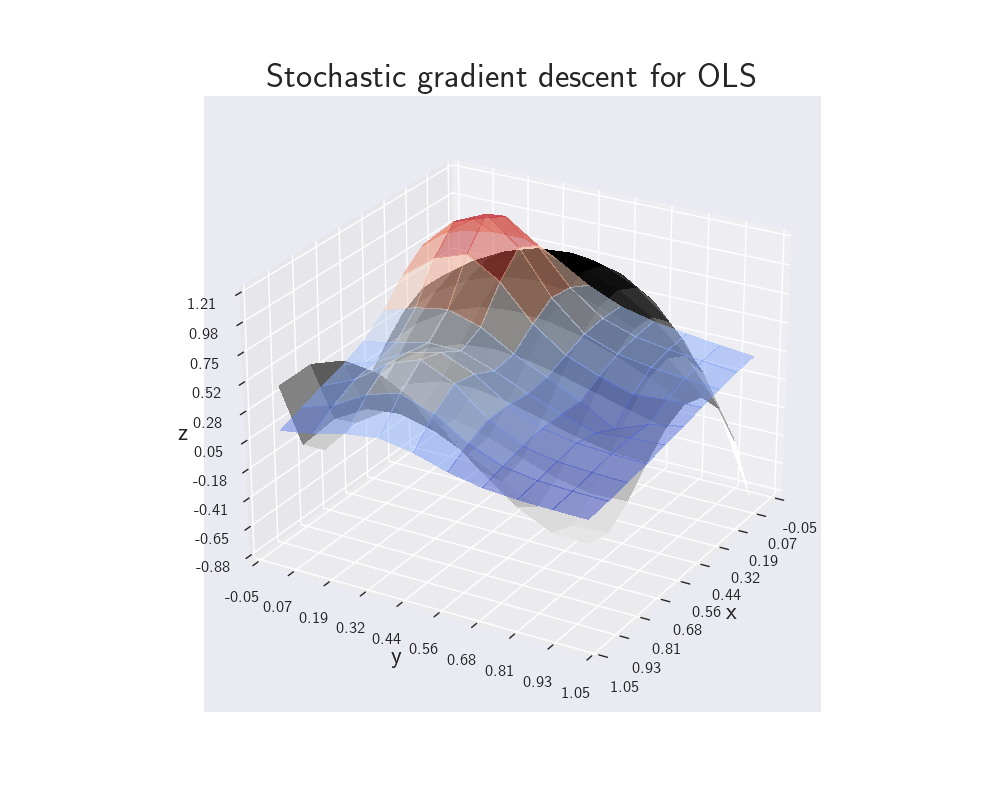
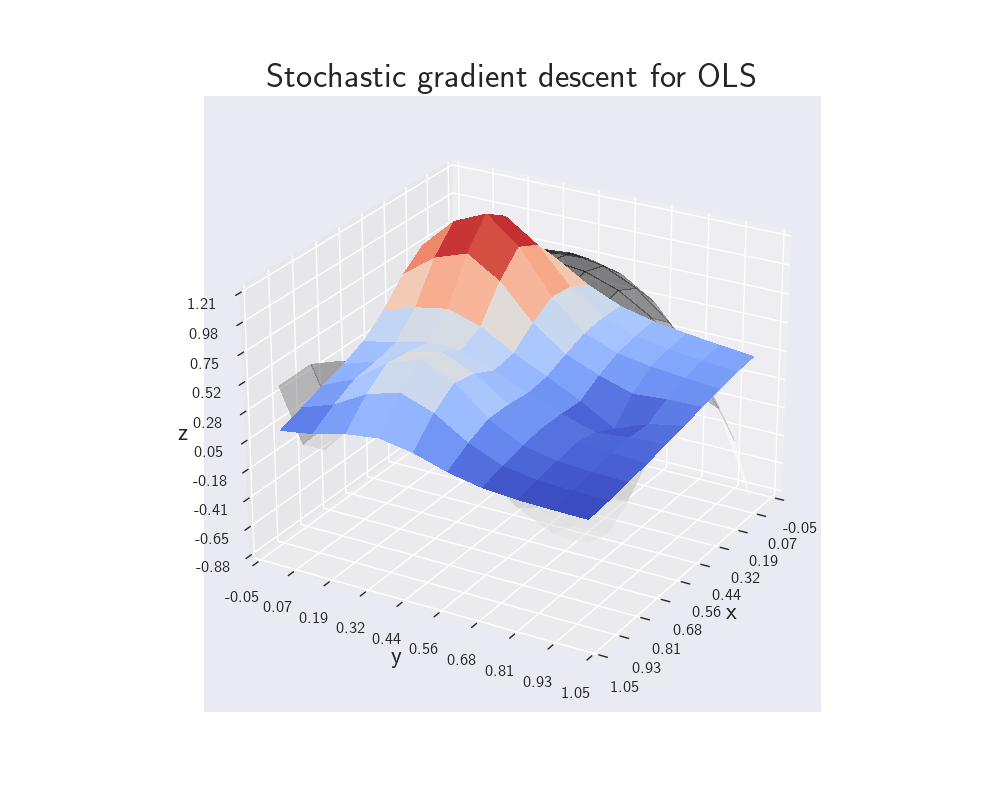
smaa endringer

Changed region(s): [[0.279, 0.25, 0.744, 0.6562]]

diff --git a/Project2/main_sebastian.py b/Project2/main_sebastian.py
@@ -37,31 +37,39 @@ def main():
     alph_solid = 1.0 # The alph values are used for which transparency to use in plotting of model and data.
     alph_transparent = 0.5
 
-    model = OLS(z, X, m, M, lamb = 0) # Initialize our OLS model.
+
+
+    model = OLS(z, X, m, M, 0) # Initialize our OLS model.
     # Calculate methods for OLS:
     MSE1_OLS, beta1 = model.SGD(x, y, z_data, n_epochs, M, t0, t1, tol)
     MSE2_OLS, beta2 = model.GDM(x, y, z_data, n_epochs, M, t0, t1, v, gamma, tol)
     # Plots for OLS:
-    model_terrain(X, x, y, beta1, N, 'Stochastic gradient descent for OLS', z_data, alph_solid, alph_transparent)
-    model_terrain(X, x, y, beta2, N, 'Stochastic gradient descent with momentum for OLS', z_data, alph_transparent, alph_solid)
+    model_terrain(X, x, y, beta1, N, 'Stochastic gradient descent for OLS', z_data, alph_transparent, alph_solid)
+    model_terrain(X, x, y, beta2, N, 'Stochastic gradient descent with momentum for OLS', z_data, alph_solid, alph_transparent)
     # Compare with scikit: (we only have loss model for OLS).
-    model.compare_MSE(n_epochs, t0, MSE1_OLS, eta0)
+    model.compare_MSE(n_epochs, t0, eta0)
 
-    model = Ridge(z, X, m, M, lamb = 4.28*10**(-2)) # Initialize our Ridge model with specific lambda value.
+    model = Ridge(z, X, m, M, 4.28*10**(-2)) # Initialize our Ridge model with specific lambda value.
     # This was the optimal lambda value from the last project.
     # Calculate methods for Ridge:
     MSE1_Ridge, beta1 = model.SGD(x, y, z_data, n_epochs, M, t0, t1, tol)
     MSE2_Ridge, beta2 = model.GDM(x, y, z_data, n_epochs, M, t0, t1, v, gamma, tol)
     # Plots for Ridge:
-    model_terrain(X, x, y, beta1, N, 'Stochastic gradient descent for Ridge', z_data, alph_transparent, alph_solid)
-    model_terrain(X, x, y, beta2, N, 'Stochastic gradient descent with momentum for Ridge', z_data, alph_solid, alph_transparent)
+    model_terrain(X, x, y, beta1, N, 'Stochastic gradient descent for Ridge', z_data, alph_solid, alph_transparent)
+    model_terrain(X, x, y, beta2, N, 'Stochastic gradient descent with momentum for Ridge', z_data, alph_transparent, alph_solid)
 
     MSE_Ridge_plot = np.zeros(len(lambdas)) # Collect the MSE after n_epochs iterations.
     for l in range(len(lambdas)): # Run through our lambda values.
-        model = Ridge(z, X ,m ,M, lambdas[l]) # Initialize our Ridge model.
-        MSE2_Ridge, beta2 = model.GDM(x, y, z_data, n_epochs, M, t0, t1, v, gamma, tol)
+        model_ = Ridge(z, X ,m ,M, lambdas[l]) # Initialize our Ridge model.
+        MSE2_Ridge, beta2 = model_.GDM(x, y, z_data, n_epochs, M, t0, t1, v, gamma, tol)
         MSE_Ridge_plot[l] = MSE2_Ridge # Collect MSE at last n for momentum SGD.
 
-    MSE_lamb(MSE_Ridge_plot, lambdas)
+    print(MSE_Ridge_plot)
+    ind = np.argmin(MSE_Ridge_plot)
+    print(ind)
+    print(lambdas[ind])
+    #MSE_lamb(MSE_Ridge_plot, lambdas)
+
+
 
 main()

diff --git a/Project2/methods_sebastian.py b/Project2/methods_sebastian.py
@@ -57,7 +57,7 @@ class GradientDecent:
 
         return mean_squared_error_2, beta
 
-    def compare_MSE(self, n_epochs, t0, MSE_own, eta0):
+    def compare_MSE(self, n_epochs, t0, eta0):
         sgdreg = SGDRegressor(loss='squared_loss', max_iter = n_epochs, penalty = None , eta0 = eta0)
         #sgdreg = SGDRegressor(loss = 'squared_loss', max_iter = n_epochs, penalty=None, alpha = 1/t0, learning_rate='optimal')
         sgdreg.fit(self.X, self.z.ravel())

diff --git a/Project2/plot_sebastian.py b/Project2/plot_sebastian.py
@@ -41,6 +41,8 @@ def MSE_lamb(MSE, lamb):
     # Plots the MSE as a function of lambda.
     fig = plt.figure(figsize=(10,8))
     ax = fig.add_subplot()
+    ax.tick_params(axis='x', which='major', labelsize=18)
+    ax.tick_params(axis='y', which='major', labelsize=18)
     ax.set_title('MSE as a function of lambda', fontsize=25)
     ax.plot(np.log(lamb), MSE, label='SGD with momentum')
     ax.set_xlabel(r'$\log_{10}(\lambda)$', fontsize=18)
